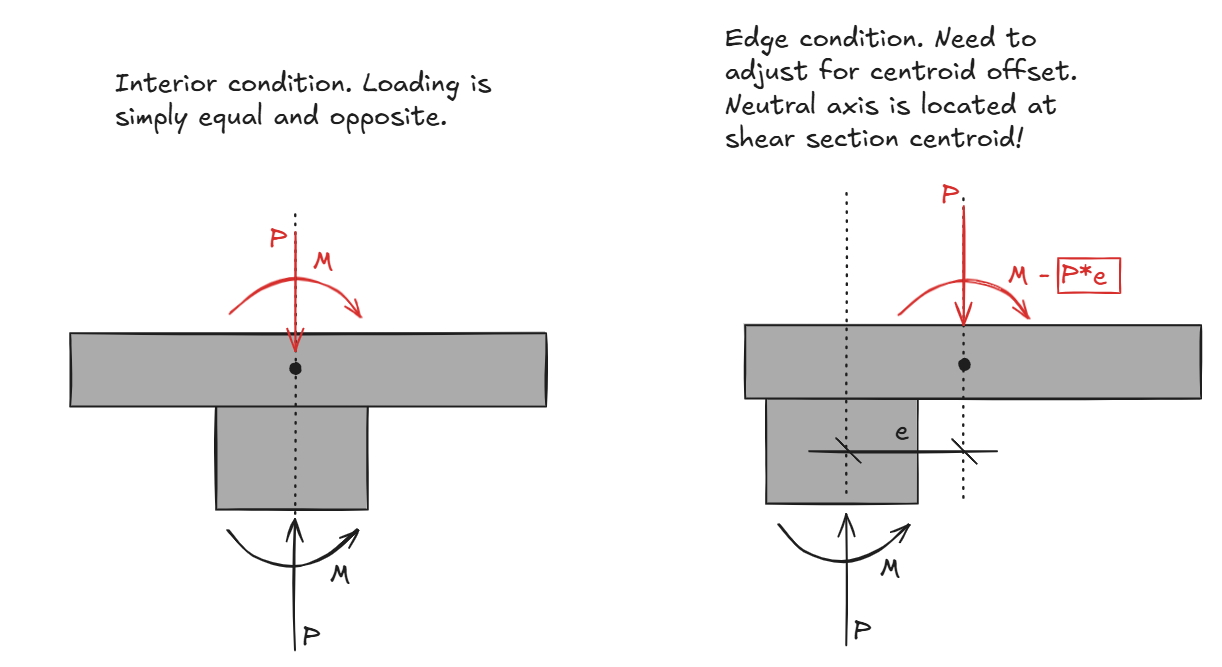
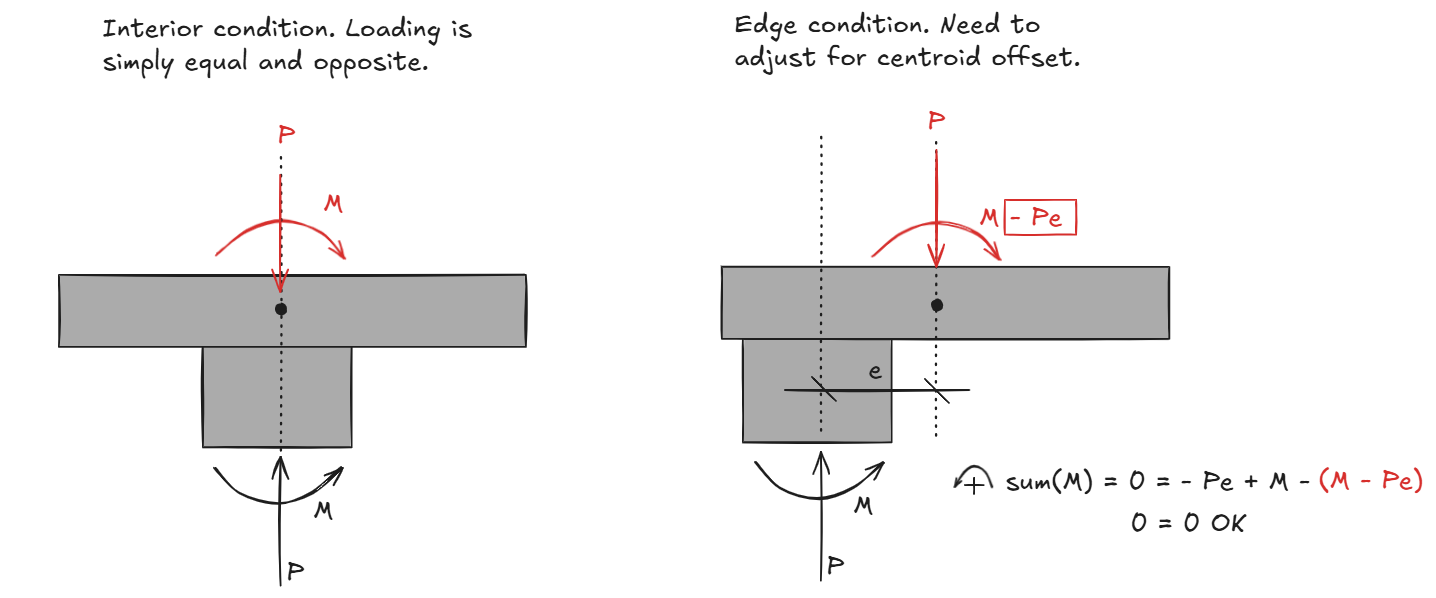
this readme is taking forever

diff --git a/test.py b/test.py
@@ -4,10 +4,10 @@ import wthisj
 column1 = wthisj.PunchingShearSection(width = 24,
                                       height = 24,
                                       slab_depth = 12,
-                                      condition = "NW",
+                                      condition = "W",
                                       overhang_x = 12,
                                       overhang_y = 12,
-                                      L_studrail = 0)
+                                      L_studrail = 48)
 
 # add openings
 # column1.add_opening(dx=0, dy=-80, width=36, height=24)
@@ -17,10 +17,10 @@ column1 = wthisj.PunchingShearSection(width = 24,
 # column1.preview()
 
 # calculate punching shear stress
-results = column1.solve(P = -10,
+results = column1.solve(P = -100,
                         Mx = 0,
-                        My = 430,
-                        consider_Pe=False,
+                        My = 0,
+                        consider_Pe=True,
                         auto_rotate=False, 
                         verbose=True)
 

diff --git a/README.md b/README.md
@@ -522,7 +522,20 @@ $$J_c = 2(\frac{d b_1^3}{12}+\frac{b_1 d^3}{12}) + 2(b_2 d) (b_1/2)^2$$
 
 In practice, the formulation above is easily strained by non-typical design scenarios. Let's consider some of the nuances that one may encounter.
 
-**Nuance #1: Is $J$ Calculated Differently For The X and Y Axes?**
+**Nuance #1: What Happens When There Is Unbalanced Moment About Both Axes?**
+
+There's been [plenty of discussion](https://www.eng-tips.com/threads/punching-shear-aci-calculation-method.392228/) on whether unbalanced moment about both principal axes should be considered concurrently, or one axis at a time. Calculating stress due to bi-axial moment will result in a maximum stress at a point, whereas all the experimental tests and thus code-based equations are based on the average stress across an entire face. According to the ACI committee 421 report in 1999 (ACI 421.1R-99), an overstress of 15% is assumed to be acceptable as stress is expected to distribute away from the highly stressed corners of the critical perimeter. However, this statement mysteriously disappeared in the latest version of the report (ACI 421.1R-20). I don't think there is consensus yet. I'll leave the engineering judgement to the reader. 
+
+Here's the full shear stress equation if we were to consider unbalanced moment about both axes. Notice that we now need to calculate two $J$ terms.
+
+$$v_u = \frac{V_u}{b_o d} \pm \frac{\gamma_{vx} M_{sc,x} c_y}{J_{cx}} \pm \frac{\gamma_{vy} M_{sc,y} c_x}{J_{cy}}$$
+
+> [!NOTE]
+> wthisj will calculate shear stress using the above formula. If you would like to consider unbalanced moment one axis at a time, make sure to set one of the moment arguments (`Mx, My`) to zero in `PunchingShearSection.solve()`
+
+
+
+**Nuance #2: Is J Calculated Differently For The X and Y Axes?**
 
 Yes. Despite being called a "polar moment of inertia", the $J_c$ term is just a regular moment of inertia, at least based on the way it is used. In mechanics of materials, polar moment of inertia ($I_z$ or $J$) is a property associated with in-plane torsion. There is only one possible $J$ for any cross section. On the other hand, the planar moments of inertia are properties associated with out-of-plane flexure and can occur about two orthogonal axes ($I_x$ and $I_y$). The planar and polar moments of inertia are related, and they may be used to calculate normal stress and shear stress, respectively.
 
@@ -540,14 +553,8 @@ $$J_{cy} = 2(\frac{d b_2^3}{12}+\frac{b_2 d^3}{12}) + 2(b_1 d) (b_2/2)^2$$
 
 
 
-**Nuance #2: Should We consider Unbalanced Moment About Both Axes?**
-
-The natural follow up question is whether we need to use $J_{cx}$ and $J_{cy}$ at the same time for bi-axial moment. There's [plenty of debate](https://www.eng-tips.com/threads/punching-shear-aci-calculation-method.392228/) on whether unbalanced moment about both principal axes should be considered concurrently, or one axis at a time. Calculating stress due to bi-axial moment will yield a maximum stress at a point, whereas all the experimental tests and thus code-based equations are based on the average stress across an entire face. According to the ACI committee 421 report in 1999 (ACI 421.1R-99), an overstress of 15% is assumed to be acceptable as stress is expected to distribute away from the highly stressed corners of the critical perimeter. However, this statement mysteriously disappeared in the latest version of the report (ACI 421.1R-20). I do not think there is consensus yet. I'll leave the engineering judgement to the reader. 
-
-Here's the full shear stress equation if we were to consider unbalanced moment about both axes.
-
-$$v_u = \frac{V_u}{b_o d} \pm \frac{\gamma_{vx} M_{sc,x} c_y}{J_{cx}} \pm \frac{\gamma_{vy} M_{sc,y} c_x}{J_{cy}}$$
-
+> [!NOTE]
+> wthisj uses numerical approximation to calculate J. In the backend, the perimeter is discretized into tiny 0.5 inch fibers, each fiber has an infinitesimal area (dA) which is then summed to approximate the moment of inertia integrals. Refer to Section 5.0 and 6.0 for more info. The user may opt to reduce the fiber size even further by changing the `PATCH_SIZE` argument when initializing a `PunchingShearSection()` object.
 
 
 
@@ -563,9 +570,14 @@ In practice, most engineers use some kind of CAD software to avoid doing the geo
 * The addition of openings may shift the perimeter centroid.
 * The addition of opening may rotate the principal axes. For example, the section above on the right must be rotated 28 degrees to its principal orientation - where $I_{xy}=0$ - otherwise equilibrium will not hold. We will elaborate further in Nuance #6.
 
+> [!NOTE]
+> wthisj allows an arbitrary number of rectangular openings to be added with the `PunchingShearSection.add_opening(dx, dy, width, height)` method. A warning will be printed to console if the openings is further than 4h away because the specified opening can technically be ignored. In the back end, each opening is converted into a $\theta$ deletion range. Then using polar coordinate system, all perimeter fibers falling within the $\theta$ deletion range is removed from the model.
 
 
-**Nuance #4: Edge or Corner Conditions With Large Overhang**
+
+
+
+**Nuance #4: What Happens When There Is Large Overhang At Edge or Corner Columns?**
 
 At edge or corner columns, the slab may cantilever far beyond the face of the column. At what point can you consider it an interior condition? According to ACI 318-19 22.6.4.1, the perimeter of the critical section shall be minimized. We will interpret this to mean that the overhang cannot provide more perimeter than if the column were on the interior. If we do the math, the limit works out to be $c_2/2 +d$. Where $d$ is the average slab depth, and $c_2$ is the column dimension parallel to the slab edge. If the slab cantilevers longer than this limit, the edge condition becomes an interior condition.
 
@@ -573,15 +585,18 @@ $$\mbox{max overhang} = c_2/2 + d$$
 
 <p align="center"><img src="./doc/theory12.png" width="70%"></p>
 
+> [!NOTE]
+> wthisj implements the above logic automatically. When a edge or corner `PunchingShearSection()` is initialized with a large enough `overhang_x` or `overhang_y`, the edge or corner condition is automatically converted to interior condition.
+
 
 
 **Nuance #5: What Happens When Perimeter Centroid Does Not Coincide With Column Centroid?**
 
-For an interior condition, the centroid of the critical shear section most likely coincides with the column centroid. However, for edge and corner conditions, this is not the case and there will be an offset which is illustrated in the figure below.
+For an interior condition, the centroid of the critical shear section most likely coincides with the column centroid. However, at edge and corner columns, there will be an offset which is illustrated in the figure below.
 
 <p align="center"><img src="./doc/theory8.png" width="60%"></p>
 
-There are two important ramifications:
+Two important ramifications from this offset:
 
 * First, the neutral axis is located at the shear perimeter centroid, NOT the column centroid. Therefore, the $c$ variable in $\gamma_v Mc/J$ must be relative to the perimeter centroid. We can calculate the perimeter centroid using the first moment of area formulas:
 
@@ -593,51 +608,75 @@ $$M_{sc,x} = M_{sc,xO} - V_u (e_y)$$
 
 $$M_{sc,y} = M_{sc,yO} + V_u (e_x)$$
 
-<p align="center"><img src="./doc/theory9.png" width="60%"></p>
+<p align="center"><img src="./doc/theory9.png" width="80%"></p>
 
-This moment adjustment is somewhat tricky. Firstly, the $Pe$ moment adjustment is almost always subtracted from the applied moment (i.e. acts in the opposite direction). In other words, it is usually more conservative to ignore it. But depending on the shear demand $V_u$, it may be overly conservative to do so. Secondly, from an implementation standpoint, I am 99% sure there is a right-hand rule sign flip for $M_{sc,x}$ , which is why there is a subtraction for that first formula. 
+This moment adjustment is kind of tricky. Firstly, the $Pe$ moment adjustment is almost always subtracted from the applied moment (try checking equilibrium yourself if you are not convinced). In other words, this $Pe$ moment most likely acts in the opposite direction. Secondly, I am not sure if this adjustment always make sense because I've seen situations where the $Pe$ moment is actually larger than the unbalanced moment. Lastly, for those trying to implement this programmatically, be careful because I am 99% sure there is a right-hand rule sign flip for $M_{sc,x}$. 
 
-If you are doing punching shear calculations by hand, I highly recommend drawing the free-body diagrams (FBD) to avoid sign errors. Furthermore, you can consider additional load sources such as cladding on the slab edge (which can get quite heavy). 
+If you are doing punching shear calculations by hand, I highly recommend drawing the free-body diagrams (FBD) to avoid sign errors. Furthermore, you can consider additional load sources such as cladding on the slab edge. Below is an example.
 
 <p align="center"><img src="./doc/theory13.png" width="50%"></p>
 
-Wthisj expects the final applied forces $(V_u, M_{ux}, M_{uy})$ to be provided by the user. Whatever load patterns you may have, please perform the necessary calculations to get the forces at the shear perimeter centroid.
+> [!NOTE]
+> Wthisj expects the final applied forces `V, Mx, My` to be provided by the user. Whatever load patterns you have, please perform the necessary calculations to get the forces with respect to the shear perimeter centroid. 
+>
+> To enable $Pe$ moment adjustment, simply set the `consider_pe` argument in `PunchingShearSection.solve()` to True (note this argument is optional and set to True by default).
 
 
 
 
 
-**Nuance #6: What If The Principal Axes Are Slanted? Such As At Corner Columns.**
+**Nuance #6: What Happens At Corner Columns Where Principal Axes Are Skewed?**
 
-In mechanics of materials, we learned that in order for the flexural formulas to be applicable, the sections MUST be in its principal orientation. An alternative perspective is to say that the applied moment vector **M**, must be resolved into components of the principal axes. The former perspective is easier to implement with code, whereas the latter is easier for hand calculations.
+In mechanics of materials, we learned that in order for the flexural formulas to be applicable, the sections MUST be in its principal orientation. An alternative perspective is to say that the applied moment vector **M**, must be resolved into components of the principal axes. 
 
 $$\sigma =M_xc_y/I_x +M_y c_x / I_y \Rightarrow \mbox{ this formula is only applicable if } I_{xy}=0$$
 
-For most symmetrical geometries, the principal axes is simply the horizontal (X) and vertical (Y) axes. However, there may be sections that have slanted principal axes. This is sometimes referred to as **unsymmetric bending**. In short, the flexure formulas - and thus the punching shear stress formula as well - can only guarantee equilibrium when applied with respect to the principal axes. 
+For most symmetrical geometries, the principal axes is simply the horizontal (X) and vertical (Y) axes. However, there are sections - such as an L shape - that have slanted principal axes. This is sometimes referred to as **unsymmetric bending**. In short, the flexure formulas - and thus the punching shear stress formula as well - can only guarantee equilibrium when applied with respect to the principal axes. 
 
-For example, in the figure below, I have a 24"x24" corner column with 12" of overhang beyond the column face. I applied -10 kips shear force and a Y-moment of 430 kip.in.
+In the figure below, I have a corner column subjected to the exact same loading condition. 
 
-<p align="center"><img src="./doc/theory14.png" width="90%"></p>
+<p align="center"><img src="./doc/theory14.png" width="100%"></p>
 
+On the left, we naively apply moment and the punching shear stress formula about the non-principal Y axes. Notice how the entire left face of the column has a constant stress. They have the same $c_x$ distance after all. Unfortunately, the resulting stress field is NOT in equilibrium.
 
+On the right, we first resolve the moment into components of the principal axes $(x_p, y_p)$, and then apply the punching shear stress formula about this rotated local axis. Notice how much higher the stress becomes at the bottom left corner!
 
-
-
-
-
-
-
-
-
+> [!NOTE]
+> To automatically rotate local axes to principal orientation, simply set the `auto_rotate` argument in `PunchingShearSection.solve()` to True (note this argument is optional and set to True by default).
+>
+> Note the entire geometry is rotated, rather than the moment vector, because it is easier to implement programmatically.
 
 
 
 
 
+**Nuance #7: What Happens When Stud Rails Are Added?**
 
-**Nuance #7: How To Calculate J for Section With Slanted Surfaces?**
+The addition of stud rails (shear reinforcements), dramatically expands the shear perimeter into a polygon. An illustration is provided below.
 
-The elephant in the room.
+
+
+
+
+
+
+
+
+
+
+
+
+
+
+
+
+
+
+
+
+
+
+
 
 
 
